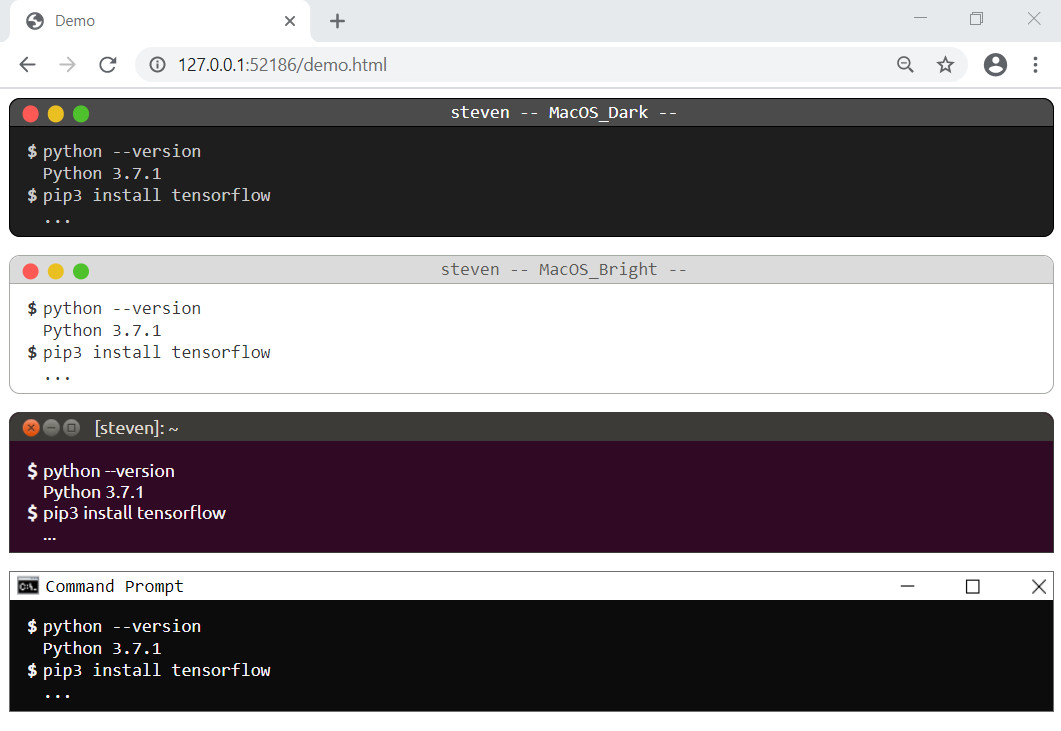
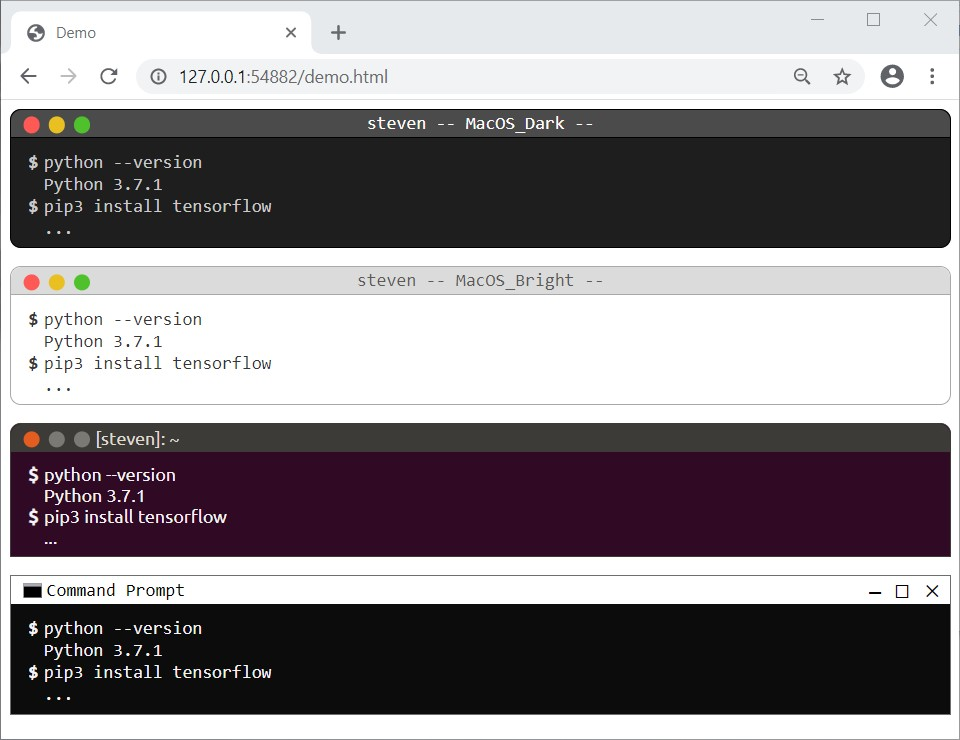
Remove images
Remove images from css and add light css style

Changed region(s): [[0.0, 0.0, 1.0, 1.0]]

diff --git a/terminal-prompt.css b/terminal-prompt.css
@@ -89,10 +89,15 @@
 }
 
 .ubuntu-buttons::before {
[1 lines of base64/hex data omitted]
-    transform: translate(0.4em, -1.4em);
+    content: '';
+    transform: translate(0.7em, -1.2em);
     display: inline-block;
+    width: 0.9em;
     height: 0.9em;
+    border-radius: 50%;
+    background: #e45d20;
+    -webkit-box-shadow: 1.4em 0 0 #7a7973, 2.8em 0 0 #7a7973;
+            box-shadow: 1.4em 0 0 #7a7973, 2.8em 0 0 #7a7973;
 }
 
 .ubuntu-content {
@@ -137,18 +142,21 @@
 }
 
 .windows-buttons::before {
[1 lines of base64/hex data omitted]
-    transform: translate(0.4em, -1.35em);
+    content: '';
+    transform: translate(0.7em, -1.3em);
     display: inline-block;
-    height: 0.9em;
+    width: 1.05em;
+    height: 0.65em;
+    background: #000000;
+    border-top: solid 0.15em #a8acb2;
 }
 
 .windows-buttons::after {
[1 lines of base64/hex data omitted]
+    content: '\2014\0020\25FB\0020\1F7A9';
     transform: translate(-0.4em, -1.3em);
     float: right;
     display: inline-block;
-    height: 0.9em;
+    font-size: 1.2em;
 }
 
 .windows-content {
